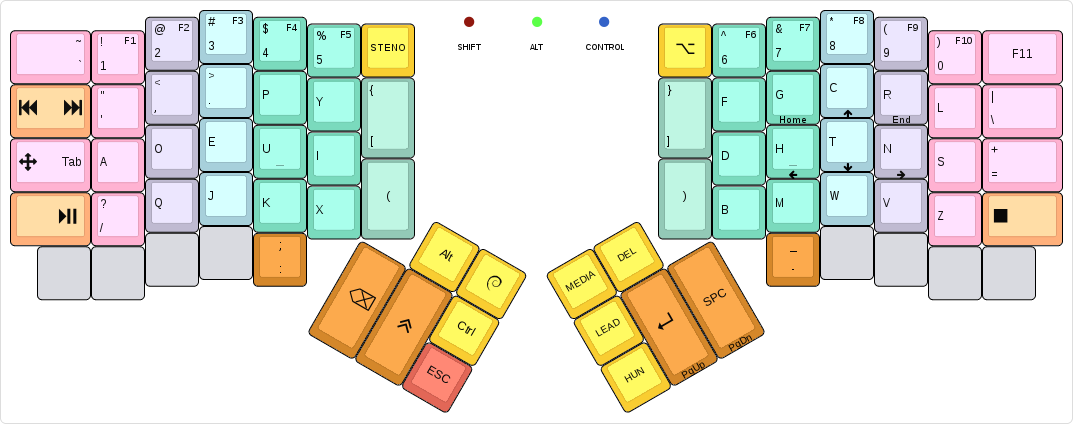
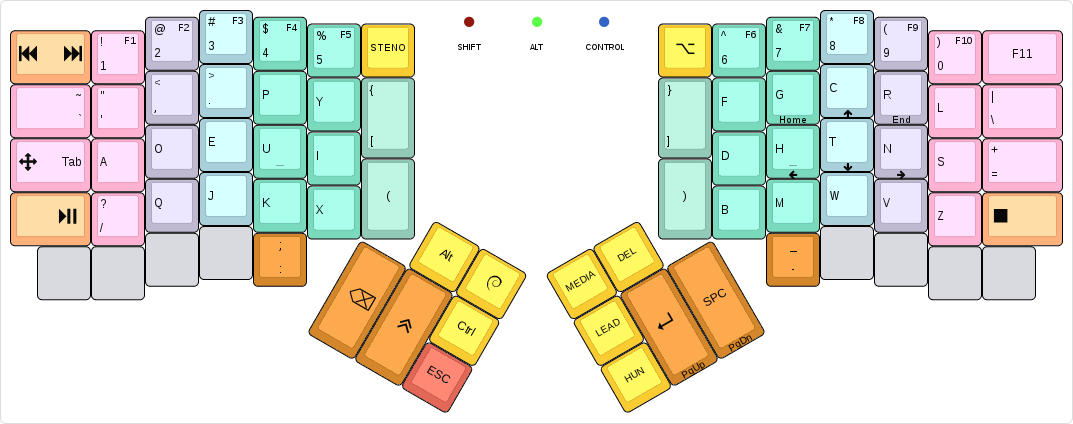
base: Swap ~ and media next/prev
Fixes #81.

Changed region(s): [[0.0, 0.0613, 0.0923, 0.3373]]

diff --git a/keymap.c b/keymap.c
@@ -112,9 +112,9 @@ const uint16_t PROGMEM keymaps[][MATRIX_ROWS][MATRIX_COLS] = {
 /* Keymap 0: Base Layer
  *
  * ,-----------------------------------------------------.           ,-----------------------------------------------------.
- * |        `~ | 1 F1 | 2 F2 | 3 F3 | 4 F4 | 5 F5 | Plvr |           | Apps | 6 F6 | 7 F7 | 8 F8 | 9 F9 | 0 F10|       F11 |
+ * | Next/Prev | 1 F1 | 2 F2 | 3 F3 | 4 F4 | 5 F5 | Plvr |           | Apps | 6 F6 | 7 F7 | 8 F8 | 9 F9 | 0 F10|       F11 |
  * |-----------+------+------+------+------+-------------|           |------+------+------+------+------+------+-----------|
- * | Next/Prev |   '  |   ,  |   .  |   P  |   Y  |   [  |           |  ]   |   F  |   G  |   C  |   R  |  L   | \         |
+ * |         ~ |   '  |   ,  |   .  |   P  |   Y  |   [  |           |  ]   |   F  |   G  |   C  |   R  |  L   | \         |
  * |-----------+------+------+------+------+------|      |           |      |------+------+------+------+------+-----------|
  * | Tab/ARROW |   A  |   O  |   E  |   U  |   I  |------|           |------|   D  |   H  |   T  |   N  |  S   | = / Arrow |
  * |-----------+------+------+------+------+------|   (  |           |  )   |------+------+------+------+------+-----------|
@@ -132,8 +132,8 @@ const uint16_t PROGMEM keymaps[][MATRIX_ROWS][MATRIX_COLS] = {
  */
 [BASE] = KEYMAP(
 // left hand
- KC_GRV             ,M(KF_1)     ,M(KF_2)     ,M(KF_3),M(KF_4),M(KF_5),M(A_PLVR)
-,M(A_MPN)           ,KC_QUOT     ,KC_COMM     ,KC_DOT ,KC_P   ,KC_Y   ,KC_LBRC
+ M(A_MPN)           ,M(KF_1)     ,M(KF_2)     ,M(KF_3),M(KF_4),M(KF_5),M(A_PLVR)
+,KC_GRV             ,KC_QUOT     ,KC_COMM     ,KC_DOT ,KC_P   ,KC_Y   ,KC_LBRC
 ,TD(CT_TA)          ,KC_A        ,KC_O        ,KC_E   ,KC_U   ,KC_I
 ,KC_MPLY            ,KC_SLSH     ,KC_Q        ,KC_J   ,KC_K   ,KC_X   ,KC_LPRN
 ,KC_NO              ,KC_NO       ,KC_NO       ,KC_NO  ,TD(CT_CLN)

diff --git a/readme.md b/readme.md
@@ -138,6 +138,7 @@ The keymap default to forcing NKRO, which seems to upset Windows, and except the
 * A `Delete` key is now available on the right thumb cluster.
 * The [ADORE](#adore-layer) layer received a major update, see the layout image above.
 * It is now possible to enable automatic logging for the [ADORE](#adore-layer) layer, by setting the `ADORE_AUTOLOG` makefile variable to `yes` when compiling the keymap. It is off by default.
+* The `~` key and the `Media Next/Prev` key have been swapped on the [base](#base-layer).
 
 ## v1.4 - 2016-07-29
 
